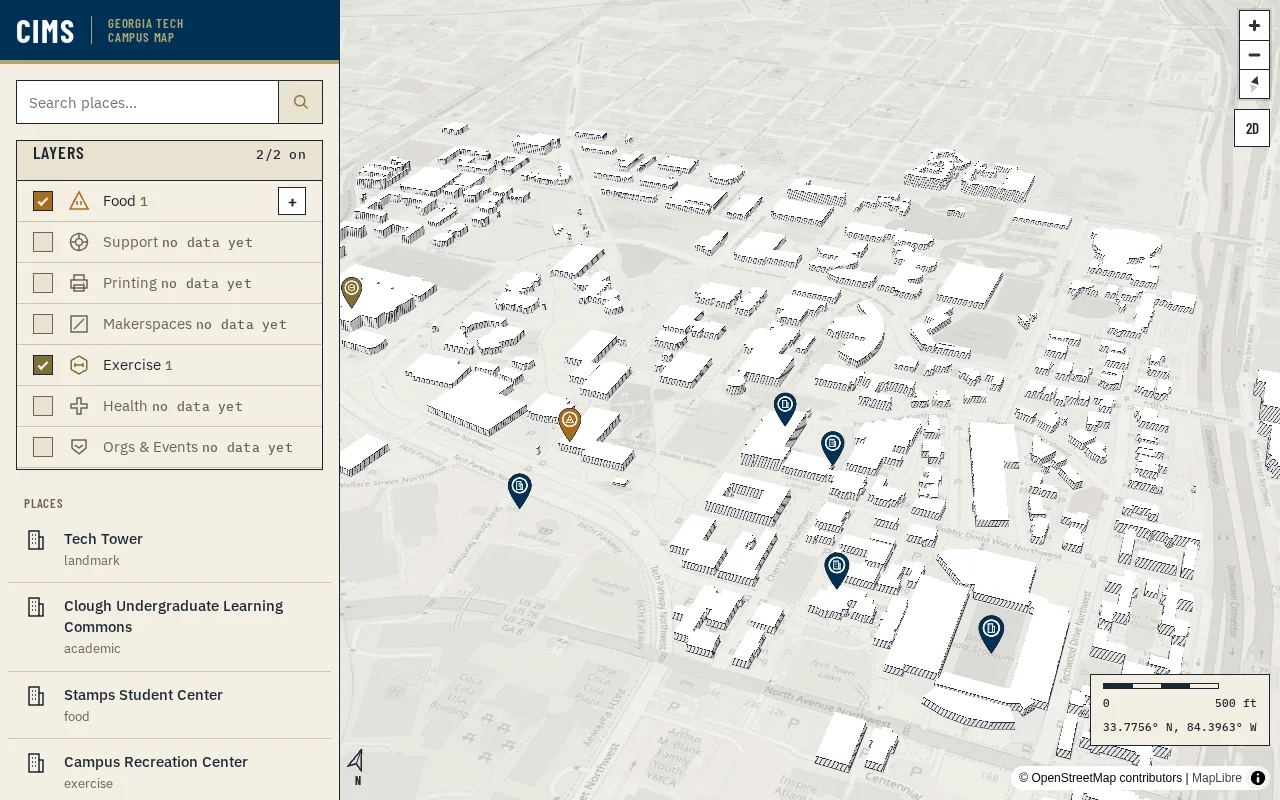
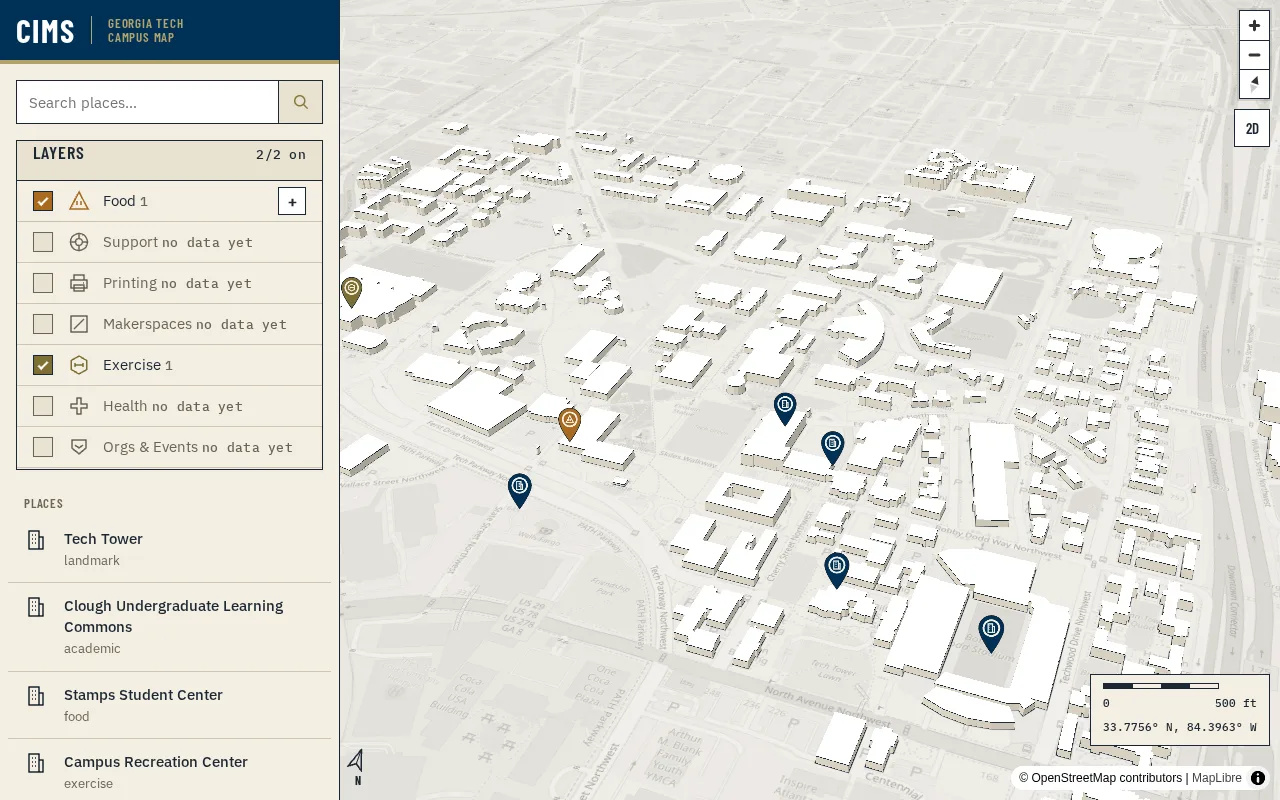
feat(map): flat paper walls, hatching only on the selected building (T-10)
Ink hatching on every wall read as dark, noisy shadows. Walls are now a flat
paper tone under white roofs; the gold hatch stays as the selection treatment.

diff --git a/src/map/layers/buildings.ts b/src/map/layers/buildings.ts
@@ -1,8 +1,8 @@
-/** @file Buildings layer: OSM footprints extruded in the survey style (hatched walls, ink rim, white roof; flat outlined footprints in 2D), gold when selected, names in caps from zoom 16. Click selects. */
+/** @file Buildings layer: OSM footprints extruded in the survey style (flat paper walls, ink rim, white roof; flat outlined footprints in 2D), gold roof and gold hatch when selected, names in caps from zoom 16. Click selects. */
 import type { FillExtrusionLayerSpecification, FilterSpecification, MapLayerMouseEvent, MapMouseEvent } from "maplibre-gl";
 import type { MapLayer } from "../types";
-import { GOLD, INK, PAPER, WHITE } from "../palette";
-import { addHatchPatterns, HATCH_GOLD, HATCH_INK } from "../patterns";
+import { GOLD, INK, PAPER, PAPER_2, WHITE } from "../palette";
+import { addHatchPatterns, HATCH_GOLD } from "../patterns";
 import buildingsUrl from "../../data/buildings.geojson?url";
 
 const SOURCE = "buildings";
@@ -72,14 +72,16 @@ const buildings: MapLayer = {
       source: SOURCE,
       paint: { "line-color": INK, "line-width": 1 },
     });
-    const wallPaint = (pattern: string): FillExtrusionLayerSpecification["paint"] => ({
-      "fill-extrusion-pattern": pattern,
+    // Walls are a flat paper tone: the fixed light shades each face a little differently, nothing else.
+    // Hatching is kept for the selected building only, so it is the one textured thing on the map.
+    const wallPaint = (look: FillExtrusionLayerSpecification["paint"]): FillExtrusionLayerSpecification["paint"] => ({
+      ...look,
       "fill-extrusion-base": ["get", "min_height"],
       "fill-extrusion-height": ["-", ["get", "height"], ROOF_THICKNESS + RIM_THICKNESS],
       "fill-extrusion-vertical-gradient": false,
     });
-    map.addLayer({ id: WALLS, type: "fill-extrusion", source: SOURCE, filter: notSelected(null), paint: wallPaint(HATCH_INK) });
-    map.addLayer({ id: WALLS_SELECTED, type: "fill-extrusion", source: SOURCE, filter: isSelected(null), paint: wallPaint(HATCH_GOLD) });
+    map.addLayer({ id: WALLS, type: "fill-extrusion", source: SOURCE, filter: notSelected(null), paint: wallPaint({ "fill-extrusion-color": PAPER_2 }) });
+    map.addLayer({ id: WALLS_SELECTED, type: "fill-extrusion", source: SOURCE, filter: isSelected(null), paint: wallPaint({ "fill-extrusion-pattern": HATCH_GOLD }) });
     map.addLayer({
       id: RIM,
       type: "fill-extrusion",

diff --git a/src/map/patterns/index.ts b/src/map/patterns/index.ts
@@ -1,10 +1,8 @@
-/** @file Hatch pattern images for building walls: one tiny SVG tinted from the palette and registered with map.addImage. */
+/** @file Hatch pattern image for the selected building's walls: one tiny SVG tinted from the palette and registered with map.addImage. */
 import type maplibregl from "maplibre-gl";
 import hatchSvg from "./hatch.svg?raw";
-import { GOLD_INK, INK, PAPER, WHITE } from "../palette";
+import { GOLD_INK, PAPER } from "../palette";
 
-/** Image id of the ink hatch (normal building walls). */
-export const HATCH_INK = "hatch-ink";
 /** Image id of the gold hatch (selected building walls). */
 export const HATCH_GOLD = "hatch-gold";
 
@@ -15,7 +13,6 @@ const W = 2;
 const H = 6;
 const RATIO = 4;
 const VARIANTS = [
-  { id: HATCH_INK, line: INK, ground: WHITE },
   { id: HATCH_GOLD, line: GOLD_INK, ground: PAPER },
 ];
 

diff --git a/src/map/palette.ts b/src/map/palette.ts
@@ -4,6 +4,8 @@
 export const INK = "#1C2733";
 /** --paper: map background, label halos, hatch ground. */
 export const PAPER = "#F3EEE2";
+/** --paper-2: building walls (a step darker than the ground, so roofs read as the lightest plane). */
+export const PAPER_2 = "#E9E2D0";
 /** --white: building roofs. */
 export const WHITE = "#FFFFFF";
 /** --gold: selected roof, selected hatch ground. */

diff --git a/docs/FUNCTIONS.md b/docs/FUNCTIONS.md
@@ -82,12 +82,12 @@ This file is regenerated automatically. Edit only the text above the AUTO marker
 - `loadLayers()` [src/map/loadLayers.ts:7](../src/map/loadLayers.ts#L7): All layers found in src/map/layers/, sorted by their `order` (default 100).
 - `INK` [src/map/palette.ts:4](../src/map/palette.ts#L4): --ink: outlines, hatching, map labels.
 - `PAPER` [src/map/palette.ts:6](../src/map/palette.ts#L6): --paper: map background, label halos, hatch ground.
-- `WHITE` [src/map/palette.ts:8](../src/map/palette.ts#L8): --white: building roofs.
-- `GOLD` [src/map/palette.ts:10](../src/map/palette.ts#L10): --gold: selected roof, selected hatch ground.
-- `GOLD_INK` [src/map/palette.ts:12](../src/map/palette.ts#L12): --gold-ink: gold linework on paper (selected hatch lines).
-- `HATCH_INK` [src/map/patterns/index.ts:7](../src/map/patterns/index.ts#L7): Image id of the ink hatch (normal building walls).
-- `HATCH_GOLD` [src/map/patterns/index.ts:9](../src/map/patterns/index.ts#L9): Image id of the gold hatch (selected building walls).
-- `addHatchPatterns(map)` [src/map/patterns/index.ts:41](../src/map/patterns/index.ts#L41): Registers the wall hatch patterns. Each starts as its flat ground color (so layers can use it right
+- `PAPER_2` [src/map/palette.ts:8](../src/map/palette.ts#L8): --paper-2: building walls (a step darker than the ground, so roofs read as the lightest plane).
+- `WHITE` [src/map/palette.ts:10](../src/map/palette.ts#L10): --white: building roofs.
+- `GOLD` [src/map/palette.ts:12](../src/map/palette.ts#L12): --gold: selected roof, selected hatch ground.
+- `GOLD_INK` [src/map/palette.ts:14](../src/map/palette.ts#L14): --gold-ink: gold linework on paper (selected hatch lines).
+- `HATCH_GOLD` [src/map/patterns/index.ts:7](../src/map/patterns/index.ts#L7): Image id of the gold hatch (selected building walls).
+- `addHatchPatterns(map)` [src/map/patterns/index.ts:38](../src/map/patterns/index.ts#L38): Registers the wall hatch patterns. Each starts as its flat ground color (so layers can use it right
 - `pinImageId(category, selected = false)` [src/map/pins.ts:16](../src/map/pins.ts#L16): Id of the image used for a category's pin. Base places (landmarks, buildings) use "base".
 - `addPins(map)` [src/map/pins.ts:52](../src/map/pins.ts#L52): Registers one normal and one selected (gold) pin per layer category, plus the navy "base" pin. Returns the id…
 

diff --git a/src/map/INDEX.md b/src/map/INDEX.md
@@ -15,7 +15,7 @@ Everything about the map engine: contract for layers, base style, and the layer 
 - [`baseStyle.ts`](baseStyle.ts): The map's base style: paper background, OSM raster tiles washed out to a drafted gray (ADR-0006 step 1), the… · exports `baseStyle`
 - [`layerFilters.ts`](layerFilters.ts): Turns the layer panel's LayerFilters into a MapLibre filter and a plain visibility check. · exports `OTHER_SUBTYPE`, `isVisible`, `buildMapFilter`
 - [`loadLayers.ts`](loadLayers.ts): Discovers every layer module in src/map/layers/ and returns them in draw order. · exports `loadLayers`
-- [`palette.ts`](palette.ts): Survey-map colors as literals for MapLibre paint and canvas drawing. Mirrors src/styles/tokens.css: change bo… · exports `INK`, `PAPER`, `WHITE`, `GOLD`, `GOLD_INK`
+- [`palette.ts`](palette.ts): Survey-map colors as literals for MapLibre paint and canvas drawing. Mirrors src/styles/tokens.css: change bo… · exports `INK`, `PAPER`, `PAPER_2`, `WHITE`, `GOLD`, `GOLD_INK`
 - [`pins.ts`](pins.ts): Survey-marker pins for the map: teardrop in the category color with the category glyph inside a paper ring. D… · exports `pinImageId`, `addPins`
 - [`types.ts`](types.ts): Contract for map layers: every file in src/map/layers/ default-exports one MapLayer.
 

diff --git a/docs/design/DESIGN-DIRECTION.md b/docs/design/DESIGN-DIRECTION.md
@@ -134,6 +134,9 @@ Hatch pattern images: tiny SVGs (e.g., 8×8, 1px diagonal ink line on paper) reg
 
 - `fill-extrusion-pattern` does not accept `feature-state`, so the selected building's gold walls are a
   second walls layer switched with `setFilter`; the gold roof does use `feature-state`.
+- **Walls are flat `--paper-2`, not hatched (Tato, 2026-11-14):** ink hatching on all 291 buildings read as
+  dark, noisy "shadows"; he asked for a cleaner, Apple-Maps-like render. Hatching is now reserved for the
+  **selected** building (gold), which makes it the only textured thing on the map.
 - A third thin extrusion in ink sits between walls and roof cap: it reads as the drafted roof edge.
 - Wall patterns stretch about 3× along the wall compared to their height, so the hatch tile is narrow
   (2 × 6 px) to come out as an even 45° line. One SVG, tinted from `src/map/palette.ts`.

diff --git a/src/map/layers/INDEX.md b/src/map/layers/INDEX.md
@@ -6,7 +6,7 @@ One file per map layer; each default-exports a MapLayer and is loaded automatica
 
 **Files**
 
-- [`buildings.ts`](buildings.ts): Buildings layer: OSM footprints extruded in the survey style (hatched walls, ink rim, white roof; flat outlin…
+- [`buildings.ts`](buildings.ts): Buildings layer: OSM footprints extruded in the survey style (flat paper walls, ink rim, white roof; flat out…
 - [`pois.ts`](pois.ts): Places layer: survey pins per category (glyph inside a paper ring), name labels from zoom 16; the selected pl…
 
 <!-- AUTO:END -->

diff --git a/src/map/patterns/INDEX.md b/src/map/patterns/INDEX.md
@@ -7,6 +7,6 @@ Hatch pattern images for the survey-map look (tiny SVGs registered with `map.add
 **Files**
 
 - [`hatch.svg`](hatch.svg): SVG image
-- [`index.ts`](index.ts): Hatch pattern images for building walls: one tiny SVG tinted from the palette and registered with map.addImag… · exports `HATCH_INK`, `HATCH_GOLD`, `addHatchPatterns`
+- [`index.ts`](index.ts): Hatch pattern image for the selected building's walls: one tiny SVG tinted from the palette and registered wi… · exports `HATCH_GOLD`, `addHatchPatterns`
 
 <!-- AUTO:END -->
